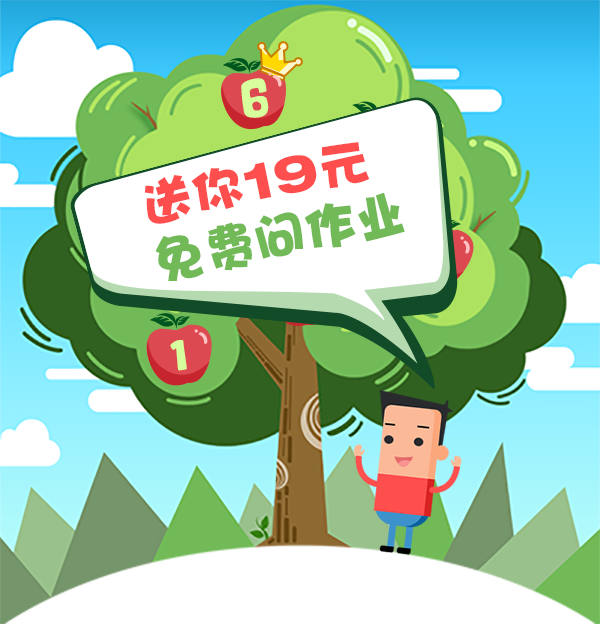
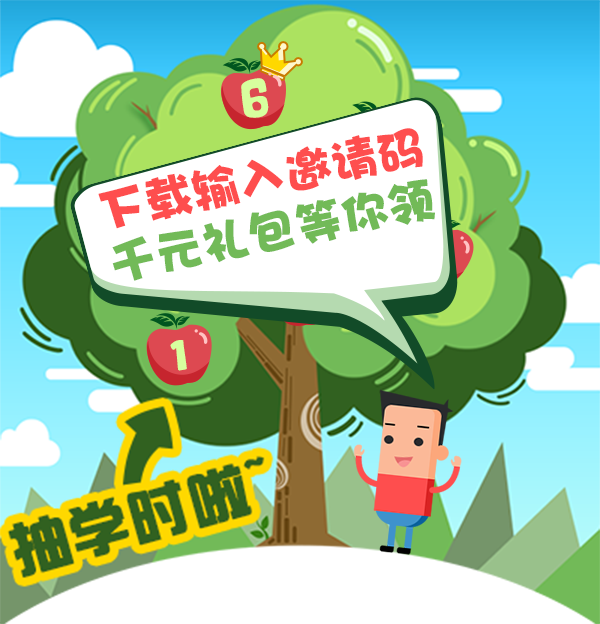
toy code commit

diff --git a/teacherOnline/GetNewPeopleActivity/index.html b/teacherOnline/GetNewPeopleActivity/index.html
@@ -7,16 +7,16 @@
     <meta http-equiv="pragma" content="no-cache">
     <meta http-equiv="cache-control" content="no-cache">
     <meta http-equiv="expires" content="0">
-    <title>呼叫老师缤纷六重壕礼，快来领取吧！</title>
-    <link rel="stylesheet" href="./css/main.css"/>
+    <title>千万学时卡大放送，100%中奖</title>
+    <link rel="stylesheet" href="./css/main.css?tt=1446537422184"/>
 </head>
 <body>
 <div class="loader">加载中...</div>
 <div class="container none">
     <div class="top">
-        <img src="./images/bg_top.png" class="tree" alt=""/>
-        <img src="./images/boy.png" class="boy" alt=""/>
-        <img src="./images/board.png" alt="" class="board"/>
+        <img src="./images/bg_top.png?tt=1446537422184" class="tree" alt=""/>
+        <img src="./images/boy.png?tt=1446537422184" class="boy" alt=""/>
+        <img src="./images/board.png?tt=1446537422184" alt="" class="board"/>
         <span class="apple apple1 "></span>
         <span class="apple apple2 "></span>
         <span class="apple apple3 "></span>
@@ -29,8 +29,8 @@
     </div>
     <div class="bottom">
         <span id="btn_invite">
-            <img src="./images/btn_invite_hover.png" alt=""/>
-            <img src="./images/btn_invite.png" alt=""/>
+            <img src="./images/btn_invite_hover.png?tt=1446537422184" alt=""/>
+            <img src="./images/btn_invite.png?tt=1446537422184" alt=""/>
         </span>
 
         <!--<p class="row1">邀请码</p>-->
@@ -40,16 +40,23 @@
         <p class="row3">好友输入邀请码，我得机会，他得券喔！</p>
 
         <p class="row4"></p>
-        <h4>活动规则&奖励</h4>
 
-        <p>1.点击【邀好友赢机会】，分享邀请码给你的好友。</p>
+        <h4>学时果奖品介绍&详情</h4>
 
-        <p>2.好友下载呼叫老师，并在【我的优惠】中兑换邀请码，你就获得1次抽奖机会，好友可以得到一张19元的抵价券。</p>
+        <p class="text_center">1号果子：（15~60元）2号果子：（9~25分钟卡）</p>
+        <p class="text_center">3号果子：（60~150元）4号果子：（29~49分钟卡）</p>
+        <P class="text_center">5号果子：（60~79分钟卡）6号果子：（160~300元）</P>
 
-        <p>3.每人最多赢得6次抽奖机会，奖励逐步增大哦~现金券、学时卡、好玩的时尚的应有尽有！</p>
+        <h4>活动规则</h4>
 
-        <p>4.本活动最终解释权归呼叫老师团队所有。</p>
-        <img src="./images/trunk.png" alt="" class="trunk"/>
+        <p>1.点击【邀好友赢学时】，分享邀请码给好友~</p>
+
+        <p>2.好友下载【呼叫老师】，并在【我的优惠】中兑换邀请码，你就获得1次抽学时苹果机会，并且好友可以立即得到一张19元抵价券哦~</p>
+
+        <p>3.每人最多6次抽奖机会，1-6号苹果奖励逐步增大~百万红包，千万张学时卡，全在苹果里面喔~</p>
+
+        <p>4.本活动最终解释权归呼叫老师团队所有！</p>
+        <img src="./images/trunk.png?tt=1446537422184" alt="" class="trunk"/>
     </div>
 </div>
 <div class="mask none">
@@ -62,8 +69,8 @@
 
         <p>快请小伙伴帮我激活吧!</p>
         <span id="btn_gotoInvite">
-            <img src="./images/btn_gotoInvition2_hover.png" alt=""/>
-            <img src="./images/btn_gotoInvition2.png" alt=""/>
+            <img src="./images/btn_gotoInvition2_hover.png?tt=1446537422184" alt=""/>
+            <img src="./images/btn_gotoInvition2.png?tt=1446537422184" alt=""/>
         </span>
     </div>
     <div class="dialogInviteSuccess none">
@@ -86,8 +93,8 @@
 
         <p>让奖品来的更猛烈些吧!</p>
         <span id="btn_getAward">
-            <img src="./images/btn_gotoInvition_hover.png" alt="" style="z-index:-2"/>
-            <img src="./images/btn_gotoInvition.png" alt=""/>
+            <img src="./images/btn_gotoInvition_hover.png?tt=1446537422184" alt="" style="z-index:-2"/>
+            <img src="./images/btn_gotoInvition.png?tt=1446537422184" alt=""/>
         </span>
     </div>
     <div class="dialogFinalAward none">
@@ -99,8 +106,8 @@
 
         <p>赶紧去分享给小伙伴吧~</p>
         <span id="btn_share">
-            <img src="./images/btn_share_hover.png" alt="" style="z-index:-2"/>
-            <img src="./images/btn_share.png" alt=""/>
+            <img src="./images/btn_share_hover.png?tt=1446537422184" alt="" style="z-index:-2"/>
+            <img src="./images/btn_share.png?tt=1446537422184" alt=""/>
         </span>
     </div>
 </div>
@@ -109,13 +116,13 @@
 
     <p>邀请更多好友来“摘果实”吧！</p>
     <span id="btn_invite2">
-        <img src="./images/btn_invitefriend_hover.png" alt=""/>
-        <img src="./images/btn_invitefriend.png" alt=""/>
+        <img src="./images/btn_invitefriend_hover.png?tt=1446537422184" alt=""/>
+        <img src="./images/btn_invitefriend.png?tt=1446537422184" alt=""/>
     </span>
 </div>
 <script src="http://libs.baidu.com/zepto/0.8/zepto.min.js"></script>
 <script src="./js/base64.min.js"></script>
 <script src="./js/tools.js"></script>
-<script src="./js/main.js"></script>
+<script src="./js/main.js?tt=1446537422184"></script>
 </body>
 </html>

diff --git a/teacherOnline/GetNewPeopleActivity/js/main.js b/teacherOnline/GetNewPeopleActivity/js/main.js
@@ -65,8 +65,8 @@ window.onload = function () {
             $('#btn_invite,#btn_invite2,#btn_gotoInvite,#btn_getAward').click(function () {
                 var locationURL = location.href.toString().split('index')[0];
                 JSNativeBridge.send('share', {
-                    "content": '呼叫老师强势来袭， 每人抽奖6次，每次必中哈哈哈',
-                    "title": '送你19元！免费问作业~快抢！',
+                    "content": '呼叫老师千万张学时卡，免费大放送啦~！每次必中哈哈哈哈',
+                    "title": '送你（1000）千元礼包，免费问作业~快抢。',
                     "type": 0,
                     "image_url": 'http://ftp.hjlaoshi.com/rtc/spread/shareicon.png',
                     "target_url": locationURL + 'invitepage.html?username=' + Base64.encodeURI(userName) + "&invitecode=" + $('.bottom .invitecode').text(),
@@ -87,8 +87,9 @@ window.onload = function () {
         }
 
         function doLottery() {
+            $('.mask').removeClass('none');
             $.getJSON(
-                'http://test.hjlaoshi.com/app/share/spreadServlet' + "?user_id=" + userId + "&method=" + 'myLottery' + '&callback=?',
+                'http://testftp.hjlaoshi.com/app/share/spreadServlet' + "?user_id=" + userId + "&method=" + 'myLottery' + '&callback=?',
                 function (data) {
                     console.log(data);
                     if (data._APP_RESULT_OPT_CODE == 90) {
@@ -152,9 +153,9 @@ window.onload = function () {
             if (userId == null) {
                 userId = '15800031138@test.hjlaoshi.com';
             }
-
+            alert(location.href);
             $.getJSON(
-                'http://test.hjlaoshi.com/app/share/spreadServlet' + "?user_id=" + userId + "&method=" + 'myCount' + '&callback=?',
+                'http://testftp.hjlaoshi.com/app/share/spreadServlet' + "?user_id=" + userId + "&method=" + 'myCount' + '&callback=?',
                 function (data) {
                     console.log(data);
                     if (data._APP_RESULT_OPT_CODE == 90) {

diff --git a/teacherOnline/GetNewPeopleActivity/invitepage.html b/teacherOnline/GetNewPeopleActivity/invitepage.html
@@ -7,7 +7,7 @@
     <meta http-equiv="pragma" content="no-cache">
     <meta http-equiv="cache-control" content="no-cache">
     <meta http-equiv="expires" content="0">
-    <title>呼叫老师缤纷六重壕礼，快来领取吧！</title>
+    <title>作业辅导（提问）券，免费送</title>
     <style>
         html, body, img, div {
             padding: 0;
@@ -138,17 +138,17 @@
             <img src="./images/btn_download.png" alt=""/>
         </span>
 
-        <p class="slogan">"下载APP，输入邀请码，</p>
+        <p class="slogan">呼叫老师，哪科不会问哪科</p>
 
-        <p class="slogan">就可以领19元免费券哦~"</p>
+        <p class="slogan">随时呼叫随时答</p>
 
         <h4>活动规则&奖励</h4>
 
-        <p class="rule">1.欢迎参加“好友邀请活动”，每人可领一张19元抵价券，免费问作业哦。</p>
+        <p class="rule">1.欢迎参加‘邀好友赢学时’活动，你可领一张19元福利卡（作业辅导券），免费问作业喔~</p>
 
-        <p class="rule">2.领券方法：下载安装“呼叫老师”，在【我的优惠】中，点击【兑换】，输入邀请码，即可成功激活。</p>
+        <p class="rule">2.兑换地址：下载安装‘呼叫老师’，在【个人中心】-【我的优惠】右上角，点击【兑换】，输入邀请码，兑换成功。</p>
 
-        <p class="rule">3.安装后，可参加更丰富的抽奖活动，最多获得六重大礼包，请在【优惠活动】中查看。</p>
+        <p class="rule">3.安装后，在个人中心-优惠活动中可以继续领大礼哦~~6重大礼包，每人累计最多1000元</p>
 
         <p class="rule">4.本次活动最终解释权归呼叫老师团队所有。</p>
 

diff --git a/teacherOnline/GetNewPeopleActivity/supershare.html b/teacherOnline/GetNewPeopleActivity/supershare.html
@@ -151,7 +151,7 @@
 
         <h4>活动规则&奖励</h4>
 
-        <p class="rule">1.欢迎参加“好友邀请活动”，两大惊喜等你来~！</p>
+        <p class="rule">1.欢迎参加“好友邀请活动”，两大惊喜等你来拿~！</p>
 
         <p class="rule">2.惊喜1：每人邀请6个好友，可获得6次抽奖机会。每抽必中哦~</p>
 

diff --git a/teacherOnline/GetNewPeopleActivity/css/main.css b/teacherOnline/GetNewPeopleActivity/css/main.css
@@ -624,3 +624,7 @@ body {
         box-shadow: -0.11em -0.83em 0 -0.4em #ffffff, -0.11em -0.83em 0 -0.42em #ffffff, -0.11em -0.83em 0 -0.44em #ffffff, -0.11em -0.83em 0 -0.46em #ffffff, -0.11em -0.83em 0 -0.477em #ffffff;
     }
 }
+
+.text_center{
+    text-align:center;
+}

diff --git a/python-learning/crash/ipAnalysis.py b/python-learning/crash/ipAnalysis.py
@@ -1,0 +1,35 @@
+__author__ = 'yantianyu'
+
+from urllib import request
+import json
+import time
+
+url = 'http://ip.taobao.com/service/getIpInfo.php?ip='
+
+
+def checkTaobaoIP(ip):
+    try:
+        response = request.urlopen(url + ip, timeout=5)
+        result = response.readlines()
+        data = json.loads(result[0])
+        return "%15s: %s-%s-%s" % (ip, data['data']['isp'], data['data']['region'], data['data']['city'])
+    except:
+        return "%15s: timeout" % ip
+
+
+if __name__ == "__main__":
+    f = open('ip.txt')
+    ips = f.readlines()
+    f.close()
+
+    f = open('ip-check.txt', 'w')
+    for ip in ips:
+        line = checkTaobaoIP(ip.strip())
+        if line:
+            print(line.encode('utf-8'))
+            f.write(line.encode('utf-8') + '\n')
+        else:
+            print(line)
+            f.write(line + '\n')
+    f.close()
+    print("Done!")
